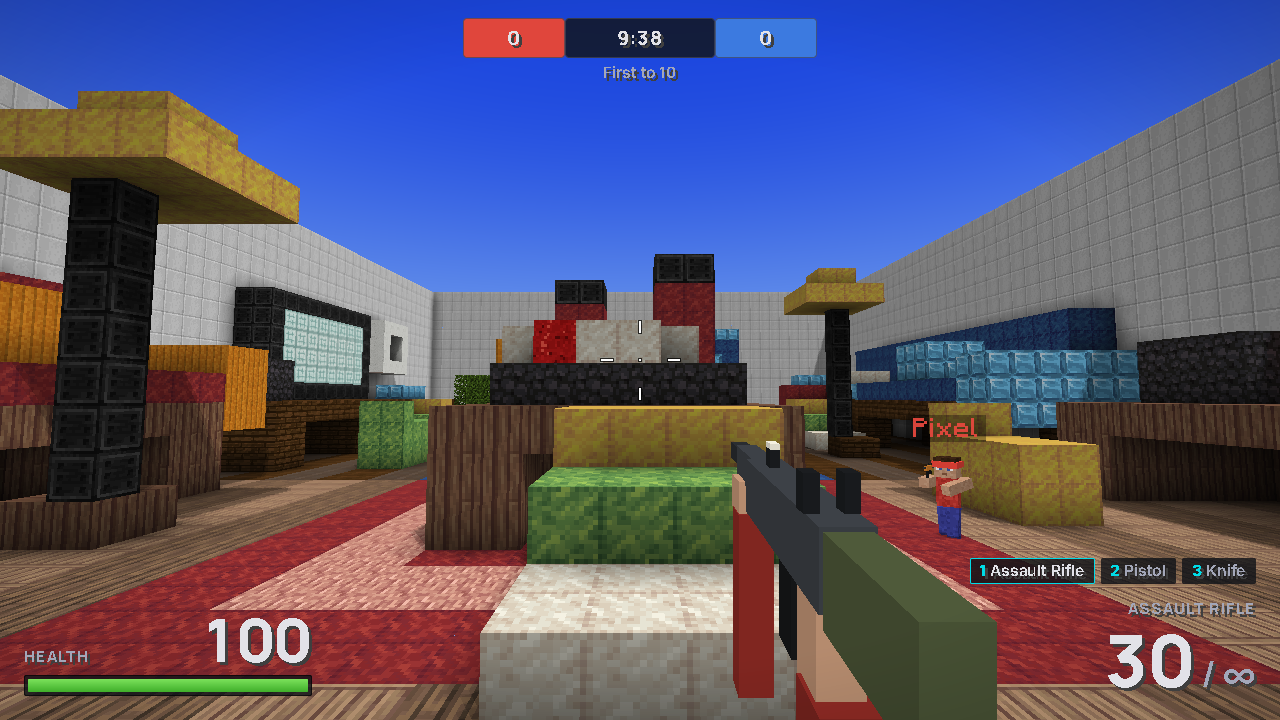
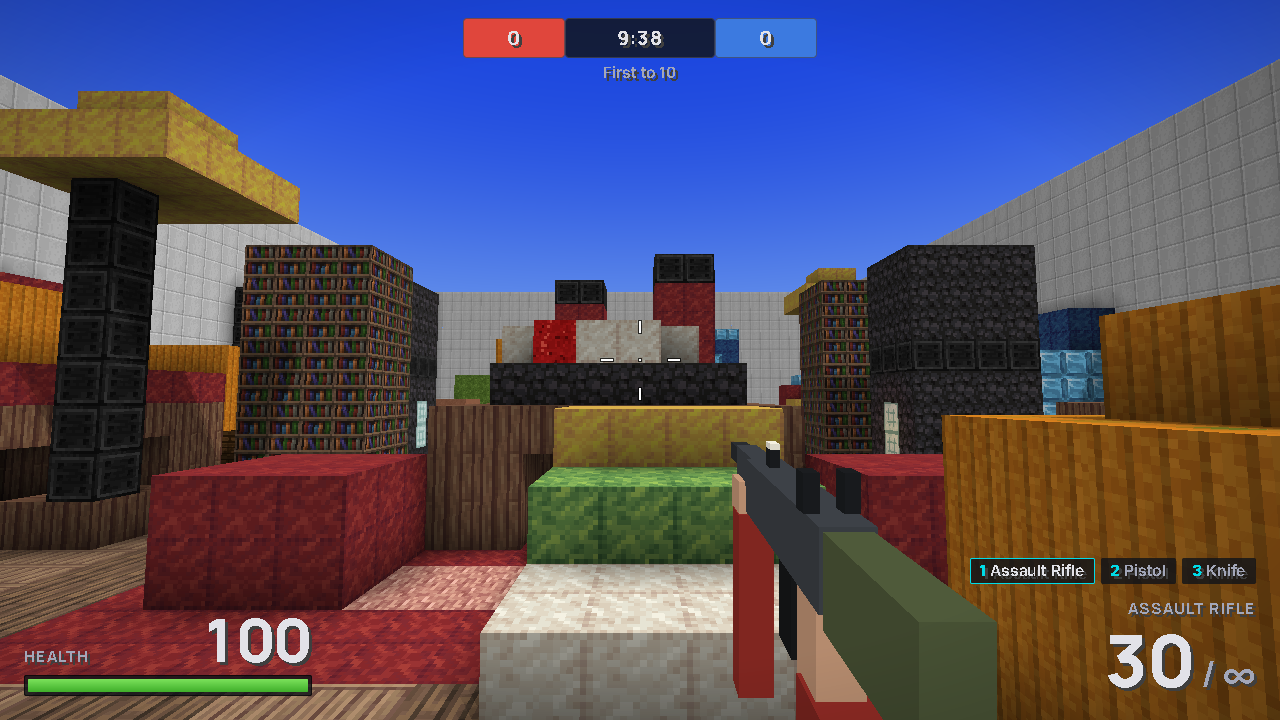
Giant-house maps: docs (GAMEMODES, SERVER, MAPS, CLAUDE), screenshots, remove debug scripts

Changed region(s): [[0.625, 0.3361, 1.0, 1.0], [0.0938, 0.3361, 0.4062, 0.8861]]

diff --git a/src/core/Game.ts b/src/core/Game.ts
@@ -121,7 +121,7 @@ const DEFAULT_HOTBAR = [
 ];
 const MENU_SEED = hashString('BunkCraft');
 /** Arena maps that fly by behind the home screen, one per visit in turn (the best-looking from above). */
-const MENU_MAPS: MapId[] = ['atomic', 'dockyard', 'villa', 'town', 'yacht', 'plaza', 'carrier', 'suburb'];
+const MENU_MAPS: MapId[] = ['atomic', 'dockyard', 'villa', 'town', 'yacht', 'plaza', 'carrier', 'suburb', 'pantry', 'couch', 'workshop'];
 const MENU_MAP_KEY = 'bunkcraft.menuMap';
 
 /** The next background map (rotates per visit; `?menuMap=id` picks one, for screenshots). */

diff --git a/scripts/shots.py b/scripts/shots.py
@@ -99,10 +99,17 @@ VIEWS = {
     ],
     'couch': [
         ('top', *top(56)), ('red', *look((-30.5, E, -1.5), (0, F + 3, 0))), ('sofa', *look((-10, E, -11), (-14, F + 4, -19))),
-        ('tunnel', *look((-30, F + 2.4, -17), (-2, F + 2, -17))), ('table', *look((-20, E, 0.5), (0, F + 4, 0.5))),
-        ('tv', *look((-28, E, 12), (-12, F + 6, 20))), ('seat', *look((-23, F + 5.6, -17), (-4, F + 5, -17))),
+        ('tunnel', *look((-5, F + 2.4, -12), (-14, F + 1.8, -18))), ('table', *look((-20, E, 0.5), (0, F + 4, 0.5))),
+        ('tv', *look((-21, E, 9), (-12, F + 6, 20))), ('seat', *look((-23, F + 5.6, -17), (-4, F + 5, -17))),
         ('lamp', *look((-14, E, -6), (-8, F + 8, -12))), ('rug', *look((-3, F + 5.6, -2), (12, F + 2, 3))),
         ('lane', *look((-30, E, -12), (0, F + 4, -12))), ('socket', *look((-28, E, 12), (-21, F + 8, 21))),
+    ],
+    'workshop': [
+        ('top', *top(56)), ('red', *look((-30.5, E, -1.5), (0, F + 3, 0))), ('bench', *look((-22, E, -8), (-12, F + 6, -19))),
+        ('car', *look((-12, E, 9.5), (-4, F + 3.5, 0))), ('tunnel', *look((-4.5, F + 2.6, 0.5), (9, F + 2, 0.5))),
+        ('spring', *look((-23, E, -9), (-15.5, F + 3, -12.5))), ('rack', *look((-29, E, 12), (-12, F + 5, 18))),
+        ('toolbox', *look((-24, E, 0), (-18, F + 4, 5))), ('socket', *look((-26, E, 12), (-29, F + 8, 21))),
+        ('shelf', *look((-23, F + 4.6, 18), (-8, F + 7, 19))), ('paint', *look((-14, E, -6), (-8, F + 4, -11))),
     ],
     'villa': [
         ('top', *top(60)), ('red', *look((-40.5, E, -2.5), (0, F + 3, 0))), ('front', *look((-30, F + 7, 3), (-8, F + 3, 0))),

diff --git a/docs/GAMEMODES.md b/docs/GAMEMODES.md
@@ -141,6 +141,9 @@ kleurenpalet, spiegelsymmetrisch voor tdm, omheind en met spawns die ver uit elk
 | Tin Roofs | `shanty` | Vrije kaart (64 × 44): een dichte sloppenwijk met plankbruggen over de daken en een watertoren, zie hieronder. | zones, vlaggen, bommen |
 | Galleria | `mall` | Vrije binnenkaart (64 × 44): een winkelcentrum van twee verdiepingen onder één dak, zie hieronder. | zones, vlaggen, bommen |
 | Scrapyard | `scrap` | Vrije kaart (60 × 42): een autosloperij als doolhof van geplette auto's, zie hieronder. | zones, vlaggen, bommen |
+| Pantry Panic | `pantry` | Vrije kaart (68 × 44): muizen in een reuzenkeuken, zie hieronder. | zones, vlaggen, bommen |
+| Couch Canyon | `couch` | Vrije kaart (68 × 44): muizen in een reuzenwoonkamer, zie hieronder. | zones, vlaggen, bommen |
+| Workbench Run | `workshop` | Vrije kaart (68 × 44): muizen in een reuzengarage, zie hieronder. | zones, vlaggen, bommen |
 | Bunker Flag | `bunker` | Voor capture the flag (64 × 40): een droge rivierbedding met oevers van 2 hoog, twee oversteekplaatsen en een overdekte duiker in het midden; elke vlag in een betonnen bunker met één deur achter een scherfmuur, spawns in een ommuurde tuin erachter. | zones, vlaggen |
 
 ### Vrije kaarten in BO2-stijl
@@ -185,6 +188,26 @@ maar de twee kanten zien er anders uit. Screenshots: `docs/screenshots/maps/<id>
   gangen; een portaalkraan staat over het midden met een auto aan de magneet boven de middelste zone. Per team een
   poortplein achter een plaatijzeren hek, een kantoor op palen. Zijbanen: een bandenberg om op te klimmen (jump pad naar
   een autostapel) en een baan met autostapels en een camper.
+- **Pantry Panic** (`pantry`), **Couch Canyon** (`couch`) en **Workbench Run** (`workshop`): de "de_rats-gedachte" (alleen de
+  mechaniek, eigen namen en indelingen): je bent een muis in een gewoon huis, dus het meubilair is het level. Schaalhints
+  zijn overal: een stopcontact met twee gaten, een geblokte vloer met tegels van vier blokken, een gingham tafelkleed, een
+  tv-scherm, een tafel van vijf hoog met poten als pilaren. Alle drie hebben drie lanes, een puntsymmetrische indeling (de
+  oostelijke helft is de westelijke 180° gedraaid, met een eigen palet), spawns in een holle kast/fauteuil/gereedschapskist met
+  uitgangen noord en zuid, een middenlandmark met een tunnel eronder en een platform erboven, hoge dekking om de paar blokken en
+  geen enkele plek op de vijandelijke helft die een spawn ziet (`spawnExposure.test.ts`).
+  - **Pantry Panic**: een keuken. In het midden een tafel met een rood/wit (west) en blauw/wit (oost) tafelkleed, borden,
+    een cornflakesdoos en zoutvaatjes erop; kookboekhellingen van één, twee en drie hoog (stapels boeken) leiden erheen. Langs
+    de noordmuur een aanrecht met een gootsteen (het water is ijs), een broodrooster, een messenblok en een stopcontact, bereikbaar
+    met een boekenhelling; een deegroller als brug van het aanrecht naar het tafelkleed. De koelkast (rood) en het fornuis
+    (blauw) zijn de landmarks tussen spawn en tafel, boodschappendozen met een flankgang erachter vormen de zuidbaan.
+  - **Couch Canyon**: een woonkamer. Een reusachtige bank (rood) en een tv-meubel (blauw) met kastjes ervoor; onder de bank en in
+    de kastjes loopt een tunnel van twee hoog, de zitting en het meubel zijn hoog terrein (hellingen van tijdschriften).
+    Een salontafel op een enorm kleed met popcorn, een blikje en een afstandsbediening, een bibliotheekkast en een luidspreker die
+    de lanes opdelen, een staande lamp, een varen en poefs.
+  - **Workbench Run**: een garage. Een speelgoedauto zo groot als een huis in het midden (tunnel eronder tussen de wielen, motorkap
+    en dak als trap van platforms), een werkbank met bankschroef en gereedschapsbord langs de noordmuur (een autoband met jump pad
+    als springplank), een stalen rek met twee planken en kartonnen dozen als trap langs de zuidmuur, een gereedschapskist (rood)
+    of verfkast (blauw) als landmark. Oliedrums, bandenstapels, een meetlint en een hamer als dekking.
 - **Skyline Villa** (`villa`): een moderne witte villa van twee verdiepingen met glazen gevels rond een open atrium (de
   middelste zone). Boven de begane grond een dakterras met glazen balustrade, trappen naar het platte dak van de
   slaapvleugel. Rood heeft een leeg zwembad (een verzonken bak van blauwe wol) met ligstoelen en parasols, blauw een

diff --git a/CLAUDE.md b/CLAUDE.md
@@ -1,6 +1,6 @@
 # BunkCraft: notes for Claude Code
 
-BunkCraft is an online arena shooter for the browser (12 modes, 17 maps, bots, progression) on its own voxel engine, with a Minecraft-style sandbox behind "Build & Survival (beta)".
+BunkCraft is an online arena shooter for the browser (12 modes, 20 maps, bots, progression) on its own voxel engine, with a Minecraft-style sandbox behind "Build & Survival (beta)".
 TypeScript, Three.js r186 (WebGL2) and Vite. A Node server (`server/`) serves the built game and the multiplayer WebSocket on one port.
 Live at https://craft.bunkhosting.nl (version `1.1.<build>` in `/health`).
 The user is Stijn and writes in **Dutch**, so reply in Dutch. Code, comments and commit messages are in English.
@@ -50,7 +50,7 @@ Server configuration uses environment variables (`PORT`, `DATA_DIR`, `SEED`, `GA
 - Custom player skins: `src/skins/SkinFormat.ts` (classic 64x64 layout, canonical form, shared), `server/skins/` (strict PNG decoder + store + moderation), `src/rendering/SkinAtlas.ts` (one atlas for all players; the player model in `MobTypes.ts` uses classic box UV). Docs in `docs/SERVER.md`.
 - `src/net/` + `server/`: JSON protocol (`src/net/protocol.ts`, shared). The server owns the edits, time and player records (`data/world.json`) and validates reach, ids, rates and speed. Clients apply edits optimistically and roll back on reject. The sandbox server simulates mobs, drops, containers and fluids.
   Server terrain is generated on worker threads (`server/chunkgen/`, `CHUNK_WORKERS`); not-yet-arrived chunks read as UNLOADED, `ServerWorld.ensureChunk` generates one synchronously when it cannot wait.
-- Arena shooter: `src/modes/` (weapons, `Balance.ts`, hitscan, loadouts, `GameTypes.ts`, 17 maps in `maps/`) is shared with `server/Match.ts` + `server/modes/` (one `ModeLogic` per game mode). The server owns hit registration (lag-compensated rewind); `server/anticheat/` validates movement and shots.
+- Arena shooter: `src/modes/` (weapons, `Balance.ts`, hitscan, loadouts, `GameTypes.ts`, 20 maps in `maps/`) is shared with `server/Match.ts` + `server/modes/` (one `ModeLogic` per game mode). The server owns hit registration (lag-compensated rewind); `server/anticheat/` validates movement and shots.
 - Bots: `server/bots/` are real match players without a socket (nav graph, aim/skill levels); they fill Quick play and private lobbies and must produce zero anti-cheat reports (`tests/botMatch.test.ts`).
 - Parties: `server/Parties.ts` (in-memory, polled via `src/net/PartyApi.ts`, panel in `src/ui/PartyPanel.ts`), party-aware matchmaking in `src/modes/Realms.ts`. Rejoin: the server keeps a dropped player's seat, score and match XP for `REJOIN_GRACE_SEC` (`Match.ts`, `GameServer.ts`, `/api/rejoin`); client side in `src/net/Rejoin.ts`.
 - Progression: pure rules in `src/modes/progression/` (levels, unlocks, XP, camos, challenges); `server/progression/` holds profiles, signed profile tokens (no accounts), the match recorder and the XP grant. XP only ever comes from the server.

diff --git a/docs/research/MAPS.md b/docs/research/MAPS.md
@@ -110,6 +110,27 @@ een pad die de rechte lijn tussen twee `pos` net mist, een muur die als grond go
 lift zijn als regressietest teruggelegd (`tests/anticheatMovement.test.ts`) en liggen sinds de validator-fix ook weer op
 de kaart zelf (`carrier.ts`, naast de liftrand).
 
+## Reuzenhuis-kaarten (de_rats-gedachte)
+
+Drie kaarten waar je een muis in een gewoon huis bent (alleen de mechaniek, eigen namen en indelingen): `pantry` (keuken),
+`couch` (woonkamer) en `workshop` (garage), 68 × 44, puntsymmetrisch met een eigen palet per helft. Het meubilair is het level:
+tafels, banken en een werkbank als hoog terrein met hellingen van boeken, dozen en kisten (jump pad via een autoband op de
+werkbank), poten als pilaren, tunnels onder bank, salontafel en speelgoedauto, borden/blikken/dozen als dekking, een stopcontact
+en een tegelvloer als schaalhint. Gedeelde bouwstenen staan in `src/modes/maps/giant.ts`. Vlaggen, zones en bomplaatsen staan in
+alle drie (alle modes werken); alle kaarttests, spawnExposure (0 plekken) en de anticheat-bewegingsreplay zijn groen.
+
+| Kaart | vis% | range | long% | first | spawn→see | gap | kpm |
+|---|---|---|---|---|---|---|---|
+| Atomic Lane (ter vergelijking) | 17,2 | 29 | 2,8 | 2,1 s | 3,3 s | 2,9 s | 64,7 |
+| Pantry Panic | 13,7 | 23 | 2,7 | 2,5 s | 3,6 s | 3,1 s | 61,2 |
+| Couch Canyon | 10,9 | 20 | 0,0 | 4,4 s | 4,1 s | 3,3 s | 59,6 |
+| Workbench Run | 10,6 | 21 | 0,2 | 3,6 s | 3,9 s | 3,3 s | 60,0 |
+
+Gevechten beginnen dichter bij (20-23 tegen 29 blokken) en lange lijnen zijn weg, maar de eerste contacten komen later
+(Couch Canyon ~2 s later dan Atomic Lane: de bibliotheekkast en de luidspreker sluiten de lanes af bij het midden). Eerste les bij het
+bouwen: bots lopen langs de rand tussen lane en midden, dus de lange lijnen zaten niet in de lanes zelf maar op die rand; een
+blokker van 3-4 breed en 7-8 hoog op elke rand bracht `long%` van 11 naar 0. Schermafbeeldingen: `docs/screenshots/maps/{pantry,couch,workshop}-*.png`.
+
 ## Wat nog beter kan
 
 - **Classic** is compact gemaakt (zie boven); echte playtests moeten uitwijzen of de deuren van de bases niet te veel kampeerplekken geven.

diff --git a/docs/SERVER.md b/docs/SERVER.md
@@ -797,7 +797,7 @@ Een game aanmaken (`POST /api/rooms`) accepteert `{ name, gameMode, seed, gameTy
 | `gameType` | `minecraft` | een id uit `GAME_TYPES` (onbekend = `minecraft`) |
 | `scoreLimit` | van het type (30 / 20 / 4 / 250 / 100 / 3) | 5 tot 100, verruimd met de keuzes van het type (1 capture, 250 punten); gun game negeert het (de ladder) |
 | `timeLimitSec` | van het type (600; elimination 90 = rondetijd) | 120 tot 1800 seconden, verruimd met de keuzes van het type (rondetijd 60 s) |
-| `mapId` | `classic` | een id uit `MAP_IDS` (`classic`, `suburb`, `quarter`, `dockyard`, `desert`, `atomic`, `bunker`, `villa`, `yacht`, `town`, `station`, `plaza`, `site`, `carrier`, `shanty`, `mall`, `scrap`) of `rotate` (onbekend = `classic`) |
+| `mapId` | `classic` | een id uit `MAP_IDS` (`classic`, `suburb`, `quarter`, `dockyard`, `desert`, `atomic`, `bunker`, `villa`, `yacht`, `town`, `station`, `plaza`, `site`, `carrier`, `shanty`, `mall`, `scrap`, `pantry`, `couch`, `workshop`) of `rotate` (onbekend = `classic`) |
 
 **Realms-endpoints:**
 
@@ -864,6 +864,9 @@ rode en blauwe wol markeert de teamzones. Elke kaart heeft eigen spawns die ver 
 | `shanty` | Tin Roofs | 64 × 44 | Vrije kaart: sloppenwijk met dakbruggen, steegjes en een watertoren |
 | `mall` | Galleria | 64 × 44 | Vrije binnenkaart: winkelcentrum met mezzanine, foodcourt en draaimolen |
 | `scrap` | Scrapyard | 60 × 42 | Vrije kaart: autosloperij met autostapels, bandenberg en portaalkraan |
+| `pantry` | Pantry Panic | 68 × 44 | Vrije kaart: reuzenkeuken met tafel, aanrecht, koelkast en fornuis |
+| `couch` | Couch Canyon | 68 × 44 | Vrije kaart: reuzenwoonkamer met bank, tv-meubel en salontafel |
+| `workshop` | Workbench Run | 68 × 44 | Vrije kaart: reuzengarage met speelgoedauto, werkbank en stalen rek |
 
 De instelling `rotate` speelt elke volgende match op de volgende kaart (in de volgorde hierboven). Bij een nieuwe
 kaart vervangt de server zijn kogelwereld en stuurt hij `match` met `info.map`; de client ziet dat dit niet zijn kaart
